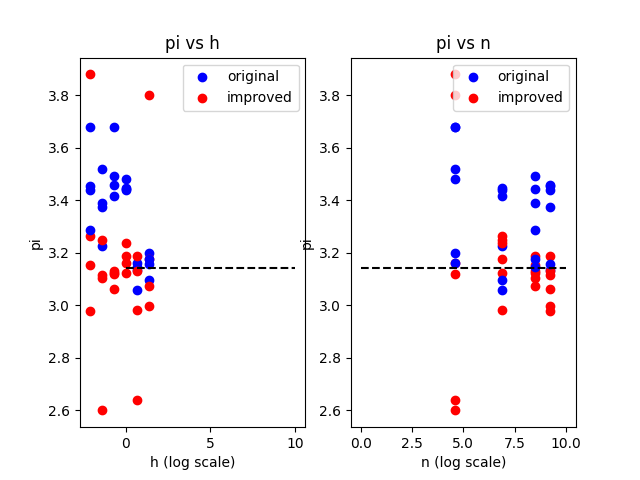
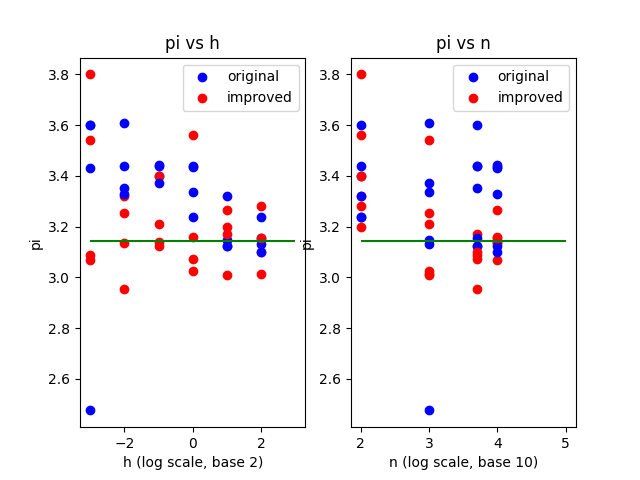
updarte

diff --git a/hw2/p3.py b/hw2/p3.py
@@ -47,20 +47,20 @@ def exp_on_n_and_h():
             improved_pi = pi_estimation_v2(n, h)
             print(f"Estimate of pi (h={h}, n={n}): {ori_pi}")
             print(f"Estimate of pi (h={h}, n={n}, improved): {improved_pi}")
-            ax[0].scatter(np.log(h), ori_pi, color="blue")
-            ax[0].scatter(np.log(h), improved_pi, color="red")
-            ax[1].scatter(np.log(n), ori_pi, color="blue")
-            ax[1].scatter(np.log(n), improved_pi, color="red")
-    ax[0].set_xlabel("h (log scale)")
+            ax[0].scatter(np.log2(h), ori_pi, color="blue")
+            ax[0].scatter(np.log2(h), improved_pi, color="red")
+            ax[1].scatter(np.log10(n), ori_pi, color="blue")
+            ax[1].scatter(np.log10(n), improved_pi, color="red")
+    ax[0].set_xlabel("h (log scale, base 2)")
     ax[0].set_ylabel("pi")
     ax[0].set_title("pi vs h")
-    ax[1].set_xlabel("n (log scale)")
+    ax[1].set_xlabel("n (log scale, base 10)")
     ax[1].set_ylabel("pi")
     ax[1].set_title("pi vs n")
     ax[0].legend(["original", "improved"])
     ax[1].legend(["original", "improved"])
-    ax[0].hlines(y=np.pi, xmin=0, xmax=10, color="black", linestyle="--")
-    ax[1].hlines(y=np.pi, xmin=0, xmax=10, color="black", linestyle="--")
+    ax[0].hlines(y=np.pi, xmin=-3, xmax=3, color="green")
+    ax[1].hlines(y=np.pi, xmin=2, xmax=5, color="green")
     plt.savefig("p3.png")
     
 
